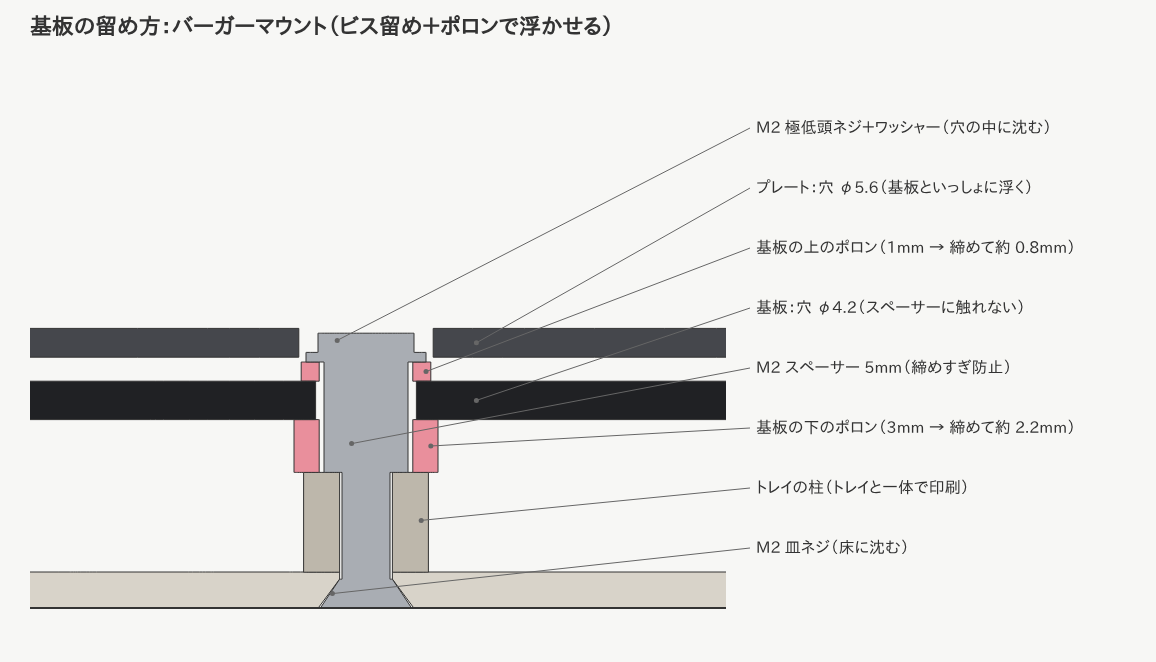
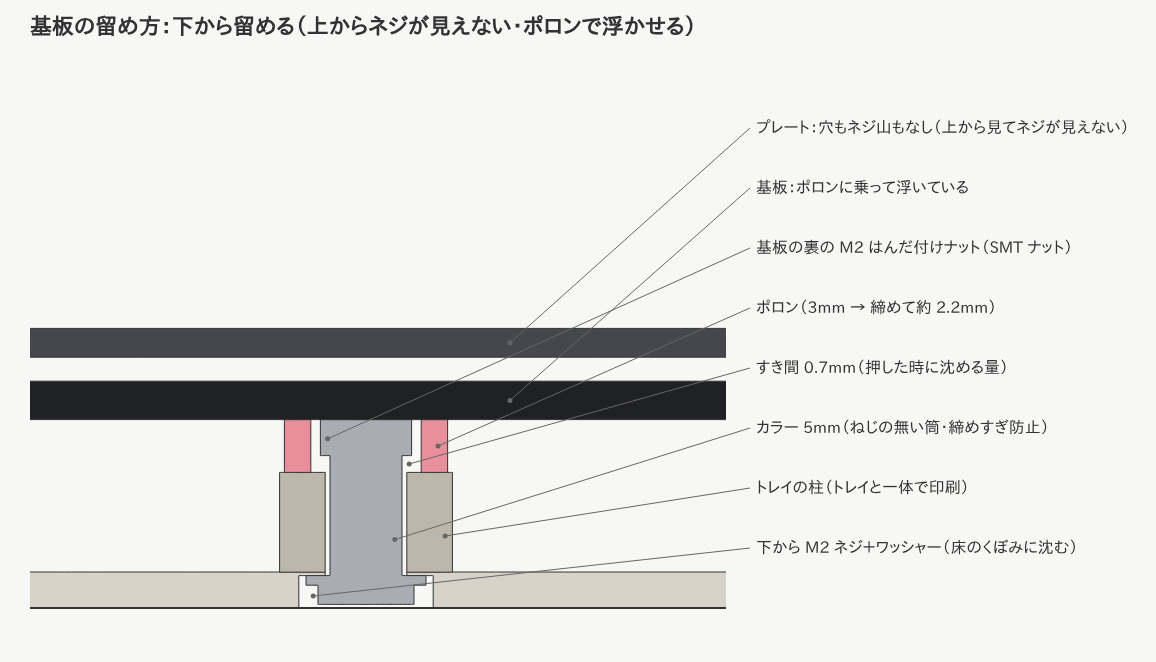
Concept: fix the PCB from below with SMT nuts so no screws show on top
Claude-Session: https://claude.ai/code/session_017zNm7dMSTHELcztuNr6aNy

diff --git a/case/concept_ukishima.py b/case/concept_ukishima.py
@@ -64,20 +64,22 @@ CLAW_ROOT_W = 14.0                # 爪の幅 (根元・リングの上面で・
 CLAW_TIP_W = 4.0                  # 爪の幅 (先・mm)
 CLAW_STEPS = 28                   # 曲面を作る輪切りの数
 
-# --- 基板の留め方 (バーガーマウント: ビス留めでも、基板はポロンにはさまれて浮いたまま) ---
-# 下から: トレイの床の皿ネジ (M2) → 柱の中 → M2 スペーサー (長さ 5mm) → 基板の穴 (φ4.2) を「触れずに」通る
-# → 基板の上のポロン → ワッシャー → 上から M2 ネジ。ネジの頭はプレートの穴 (φ5.6) の中に沈む (キーキャップに当たらない)
-# プレートはスイッチで基板にくっついているので、基板といっしょに浮く。
-# スペーサーの長さで締めすぎを防ぐ (誰が組んでもポロンのつぶれ具合が同じ)
-TOP_PORON = 0.8                   # 基板の上のポロン (1mm のシートを締めて約 0.8mm)
+# --- 基板の留め方 (下から留める・上から見てネジが見えない) ---
+# 基板の裏に M2 の「はんだ付けナット (SMT ナット)」を付け、トレイの裏から M2 ネジで留める。
+# プレートには穴もネジ山も無い → 上から見えるのはキーとプレートだけ。プレートの素材を替えても加工はいらない
+# (1.2mm の FR4 / POM にネジ山を切ると山が少なく、すぐ潰れるので、ナットは基板の側に付ける)
+# 下から: ネジの頭＋ワッシャー (床のくぼみ) → カラー (ねじの無い筒・長さで締めすぎを防ぐ) が柱の穴を「触れずに」通る
+# → 基板の裏のナット。基板は柱の上のポロンだけに乗っていて、浮いたまま (キーを押すとポロンが縮む)
+NUT_R, NUT_H = 1.9, 1.5           # SMT ナット (外径 3.8mm・高さ 1.5mm)
+COLLAR_R = 1.5                    # カラー 外径 3mm (内径 2.1mm)
+POST_R = 3.6                      # 柱 (ポロンを受ける面を広く)
+POST_HOLE_R = 1.7                 # 柱の穴 (カラーとのすき間 0.2mm)
 WASHER_R, WASHER_T = 2.5, 0.4     # M2 ワッシャー (外径 5mm)
-SPACER_R = 1.75                   # 丸スペーサー 外径 3.5mm
-SPACER_L = PORON + 1.6 + TOP_PORON + WASHER_T     # = 5.0mm (市販の長さ)
-PCB_HOLE_R = 2.1                  # 基板の穴 φ4.2 (スペーサーに触れない)
-PLATE_HOLE_R = 2.8                # プレートの穴 φ5.6 (キーの角どうしのすき間に収まる大きさ)
-SCREW_HEAD_R, SCREW_HEAD_H = 2.0, 0.8     # 上のネジの頭 (φ4・高さ 0.8mm の極低頭)
+SCREW_HEAD_R, SCREW_HEAD_H = 2.0, 0.8
 POST_TOP = PCB_B - PORON
-SCREW_TOP = POST_TOP + SPACER_L + SCREW_HEAD_H    # ネジの頭の上 (プレートの上面より低い)
+NUT_B = PCB_B - NUT_H             # ナットの下面 (柱の上面とのすき間 = 押した時に動ける量)
+COLLAR_B = NUT_B - 5.0            # カラー 長さ 5mm (市販の長さ)
+RECESS_D = COLLAR_B               # 床の裏のくぼみの深さ (ワッシャーの上面 = カラーの下面)
 
 KEYS = {
     "left": [(c*U, r*U) for c in range(5) for r in range(4)] + [(5*U, 0), (5*U, 2*U), (5*U, 3*U), (6*U, 0)],
@@ -169,27 +171,25 @@ def half(side, size=25):
         bx, by = k.HALVES["right"]["ball"]
         tray = tray - k.cyl(bx, by, -1, FLOOR + 1, bu.UNIT_R + 0.3)
     parts["tray"] = tray
-    # 柱とガスケット・ネジ (バーガーマウント)
-    posts, pads, tops, metal = [], [], [], []
+    # 柱とガスケット・ネジ (下から留める)
+    posts, pads, metal = [], [], []
     for x, y in POSTS[side]:
-        posts.append(k.cyl(x, y, FLOOR - 0.01, POST_TOP, 2.6))
-        pads.append(k.cyl(x, y, POST_TOP, PCB_B, 3.0))
-        tops.append(k.cyl(x, y, PCB_T, PCB_T + TOP_PORON, 2.7))
-        st = POST_TOP + SPACER_L
-        metal += [k.cyl(x, y, POST_TOP, st, SPACER_R),
-                  k.cyl(x, y, st - WASHER_T, st, WASHER_R),
-                  k.cyl(x, y, st, st + SCREW_HEAD_H, SCREW_HEAD_R),
-                  k.cyl(x, y, 0, 1.2, 1.9, 1.1), k.cyl(x, y, 1.2, POST_TOP, 1.0)]
-    screw_holes = k.union([k.cyl(x, y, -1, POST_TOP + 1, 1.1) + k.cyl(x, y, -0.01, 1.2, 2.0, 1.1)
-                           for x, y in POSTS[side]])
-    parts["tray"] = parts["tray"] - screw_holes
-    parts["posts"] = k.union(posts) - screw_holes
-    gap = k.union([k.cyl(x, y, POST_TOP - 1, PCB_T + TOP_PORON + 1, SPACER_R + 0.2) for x, y in POSTS[side]])
-    parts["gasket"] = (k.union(pads) + k.union(tops)) - gap
+        posts.append(k.cyl(x, y, FLOOR - 0.01, POST_TOP, POST_R))
+        pads.append(k.cyl(x, y, POST_TOP, PCB_B, POST_R - 0.2) - k.cyl(x, y, POST_TOP - 1, PCB_B + 1, NUT_R + 0.4))
+        metal += [k.cyl(x, y, NUT_B, PCB_B, NUT_R),                                  # ナット
+                  k.cyl(x, y, COLLAR_B, NUT_B, COLLAR_R),                            # カラー
+                  k.cyl(x, y, COLLAR_B - WASHER_T, COLLAR_B, WASHER_R),              # ワッシャー
+                  k.cyl(x, y, COLLAR_B - WASHER_T - SCREW_HEAD_H, COLLAR_B - WASHER_T, SCREW_HEAD_R),
+                  k.cyl(x, y, COLLAR_B, PCB_B - 0.3, 1.0)]                           # ネジ
+    holes = k.union([k.cyl(x, y, -1, POST_TOP + 1, POST_HOLE_R) + k.cyl(x, y, -1, RECESS_D, WASHER_R + 0.3)
+                     for x, y in POSTS[side]])
+    parts["tray"] = parts["tray"] - holes
+    parts["posts"] = k.union(posts) - holes
+    parts["gasket"] = k.union(pads)
     parts["screws"] = k.union(metal)
-    # 基板・プレート
-    parts["pcb"] = k.prism(pcb, PCB_B, PCB_T) - k.union([k.cyl(x, y, 0, 30, PCB_HOLE_R) for x, y in POSTS[side]])
-    parts["plate"] = k.prism(plate, PLATE_B, PLATE_T) - k.union([k.cyl(x, y, 0, 30, PLATE_HOLE_R) for x, y in POSTS[side]])
+    # 基板・プレート (プレートには穴なし)
+    parts["pcb"] = k.prism(pcb, PCB_B, PCB_T)
+    parts["plate"] = k.prism(plate, PLATE_B, PLATE_T)
     # スイッチとキーキャップ
     parts["switch"] = k.union([k.cube(x - 6.9, y - 6.9, PLATE_T, x + 6.9, y + 6.9, PLATE_T + 3) for x, y in KEYS[side]])
     parts["caps"] = k.union([keycap(x, y, PLATE_T + 4, KEY_TOP) for x, y in KEYS[side]])
@@ -236,8 +236,8 @@ def main(out, size=25):
     _, claw_top = claw_cover(25)
     print(f"キーキャップ上 {KEY_TOP:.1f} / リング上面 {RING_TOP:.1f} / 爪の先 {claw_top:.1f} / "
           f"ボールのてっぺん {cz + 12.5:.1f} (19mm: {bu.BALL_BOTTOM + 19:.1f}) / トレイの縁 {RIM:.1f}")
-    print(f"柱の上 {POST_TOP:.2f} / スペーサー {SPACER_L:.2f} / ネジの頭の上 {SCREW_TOP:.2f} "
-          f"(プレートの上面より {PLATE_T - SCREW_TOP:.2f}mm 低い)")
+    print(f"柱の上 {POST_TOP:.2f} / ナットの下 {NUT_B:.2f} (動ける量 {NUT_B - POST_TOP:.2f}) / "
+          f"カラー {COLLAR_B:.2f}〜{NUT_B:.2f} / 床のくぼみ {RECESS_D:.2f} (床 {FLOOR})")
 
 
 if __name__ == "__main__":

diff --git a/tools/draw_concept.py b/tools/draw_concept.py
@@ -73,19 +73,18 @@ def mount_view(parts, out):
     """基板の留め方 (バーガーマウント) の断面。内側の柱 1 本を左右に切る"""
     x, y = cu.POSTS["right"][6]
     items = [(n, m) for n, m in parts.items() if n in ("tray", "posts", "gasket", "pcb", "plate", "switch", "caps", "screws")]
-    st = cu.POST_TOP + cu.SPACER_L
     labels = [
-        (-1.2, st + cu.SCREW_HEAD_H - 0.3, f"M2 極低頭ネジ＋ワッシャー（穴の中に沈む）", (16, 20)),
-        (4.6, cu.PLATE_T - 0.6, "プレート：穴 φ5.6（基板といっしょに浮く）", (16, 17.5)),
-        (2.5, cu.PCB_T + cu.TOP_PORON / 2, f"基板の上のポロン（1mm → 締めて約 {cu.TOP_PORON}mm）", (16, 15)),
-        (4.6, cu.PCB_B + 0.8, "基板：穴 φ4.2（スペーサーに触れない）", (16, 12.5)),
-        (-0.6, cu.POST_TOP + 1.2, f"M2 スペーサー {cu.SPACER_L:.0f}mm（締めすぎ防止）", (16, 10)),
-        (2.7, cu.POST_TOP + cu.PORON / 2, f"基板の下のポロン（3mm → 締めて約 {cu.PORON}mm）", (16, 7.5)),
-        (2.3, cu.POST_TOP - 2, "トレイの柱（トレイと一体で印刷）", (16, 5)),
-        (-1.4, 0.6, "M2 皿ネジ（床に沈む）", (16, 2.5)),
+        (6, cu.PLATE_T - 0.6, "プレート：穴もネジ山もなし（上から見てネジが見えない）", (16, 20)),
+        (6, cu.PCB_B + 0.8, "基板：ポロンに乗って浮いている", (16, 17.5)),
+        (-1.6, cu.NUT_B + 0.7, f"基板の裏の M2 はんだ付けナット（SMT ナット）", (16, 15)),
+        (3.0, cu.POST_TOP + cu.PORON / 2, f"ポロン（3mm → 締めて約 {cu.PORON}mm）", (16, 12.5)),
+        (1.8, cu.POST_TOP + 0.35, f"すき間 {cu.NUT_B - cu.POST_TOP:.1f}mm（押した時に沈める量）", (16, 10)),
+        (1.2, cu.COLLAR_B + 1.5, "カラー 5mm（ねじの無い筒・締めすぎ防止）", (16, 7.5)),
+        (3.3, 3, "トレイの柱（トレイと一体で印刷）", (16, 5)),
+        (-2.2, 0.5, "下から M2 ネジ＋ワッシャー（床のくぼみに沈む）", (16, 2.5)),
     ]
     W, H, body = ds.section(items, "az", (x, y, 0), ((-14, 15), (-1, 22)),
-                            "基板の留め方：バーガーマウント（ビス留め＋ポロンで浮かせる）", labels, px=24)
+                            "基板の留め方：下から留める（上からネジが見えない・ポロンで浮かせる）", labels, px=24)
     open(os.path.join(out, "ukishima-mount.svg"), "w").write(ds.svg(W, H, body))
 
 
@@ -108,13 +107,14 @@ def top_view(parts, out):
 
     bx, by = k.HALVES["right"]["ball"]
     o = ['<text x="30" y="34" font-size="22" font-weight="bold" fill="#333">'
-         '上から見た右手：爪は打鍵の指が通らない所に（グレーの丸は基板を留めるネジ）</text>']
+         '上から見た右手：爪は打鍵の指が通らない所に（青い点線＝基板の下で留めるネジ。上からは見えない）</text>']
     o.append(poly(parts["tray"], "#e8e4dc"))
     o.append(poly(parts["pcb"], "#202124"))
     o.append(poly(parts["view"], "#11181f"))
     o.append(poly(parts["caps"], "#f3f0e9", extra='fill-opacity="0.82"'))
     for x, y in cu.POSTS["right"]:
-        o.append(f'<circle cx="{X(x):.1f}" cy="{Y(y):.1f}" r="{cu.SCREW_HEAD_R * px:.1f}" fill="#a9adb3" stroke="#333"/>')
+        o.append(f'<circle cx="{X(x):.1f}" cy="{Y(y):.1f}" r="{cu.POST_R * px:.1f}" fill="none" stroke="#2e86c1" '
+                 f'stroke-width="2" stroke-dasharray="5,4"/>')
     o.append(poly(parts["ball_cup"], "#ece7dd"))
     o.append(poly(parts["ball"], "#b8432f"))
     o.append(poly(parts["ball_cover"], "#2b2d31"))
